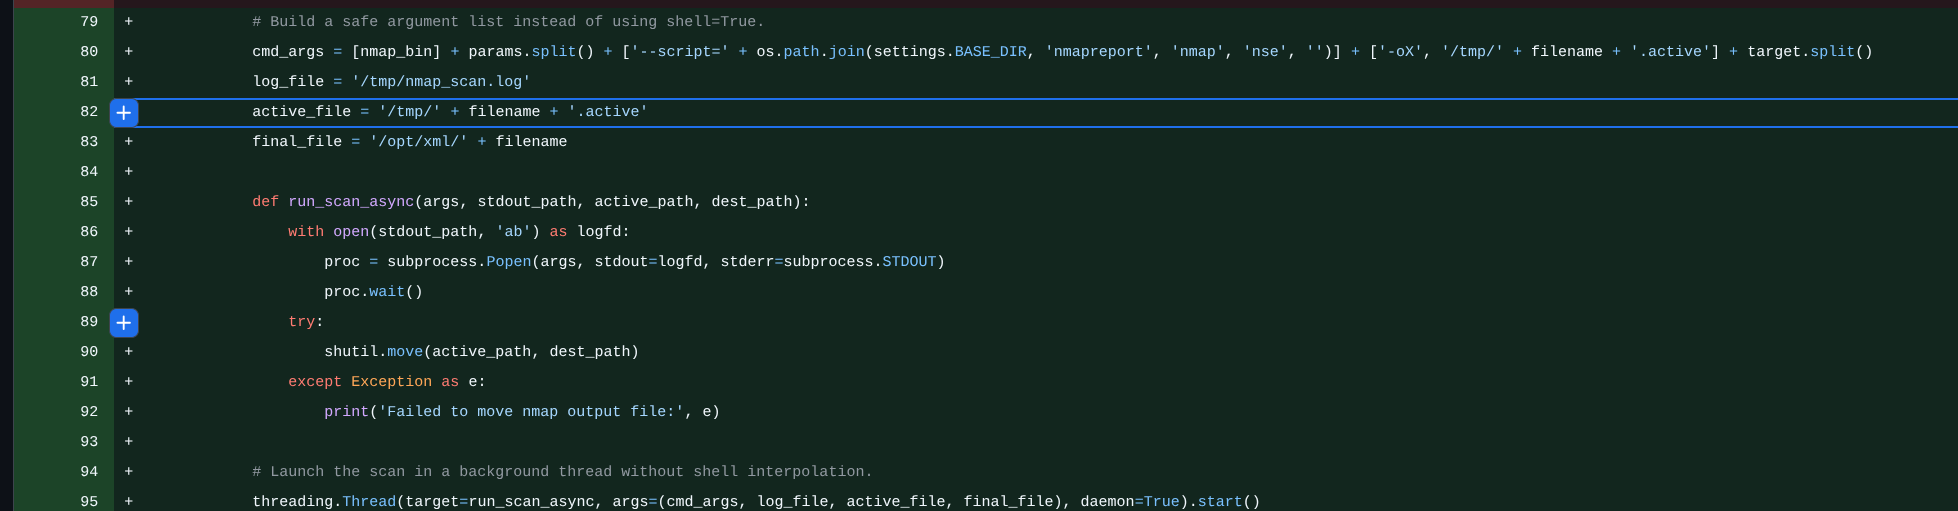
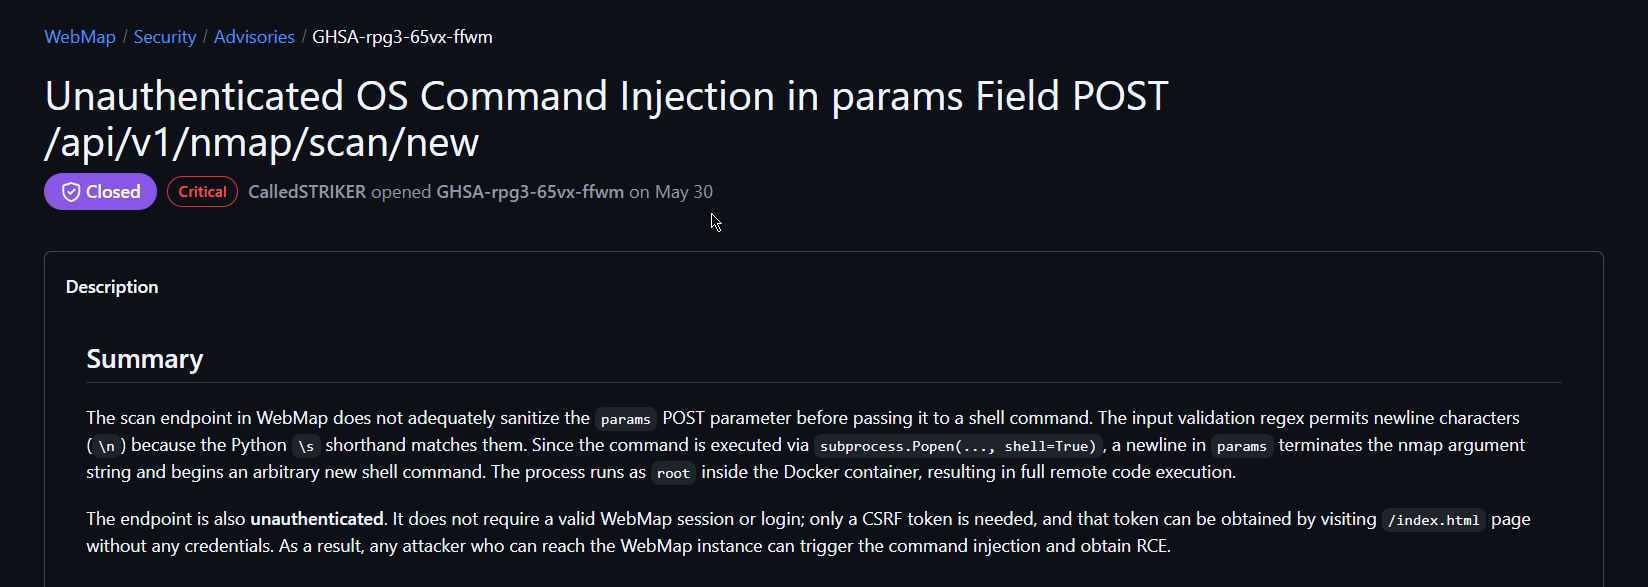
GITBOOK-87: No subject

diff --git a/security-research/webmap.md b/security-research/webmap.md
@@ -1,4 +1,6 @@
-# CVE-2026-90843
+# WebMap: CVE-2026-90843
+
+
 
 <figure><img src="../.gitbook/assets/image (2).png" alt=""><figcaption></figcaption></figure>
 
@@ -236,6 +238,8 @@ With 100K+ pulls, a lot of people have run WebMap's default command exactly as w
 ### What the Maintainer Did
 
 I reported this through a GitHub security advisory. I was so excited for my first CVE that I couldn't wait so I did some OSINT and found the maintainer's LinkedIn profile, and reached out directly to gently ask them to review the advisory urgently.
+
+<figure><img src="../.gitbook/assets/image (16).png" alt=""><figcaption></figcaption></figure>
 
 Setting aside how they were disrespectful, they told me the **project is just for fun and that it must only run on localhost or it's the user's problem.**
 
